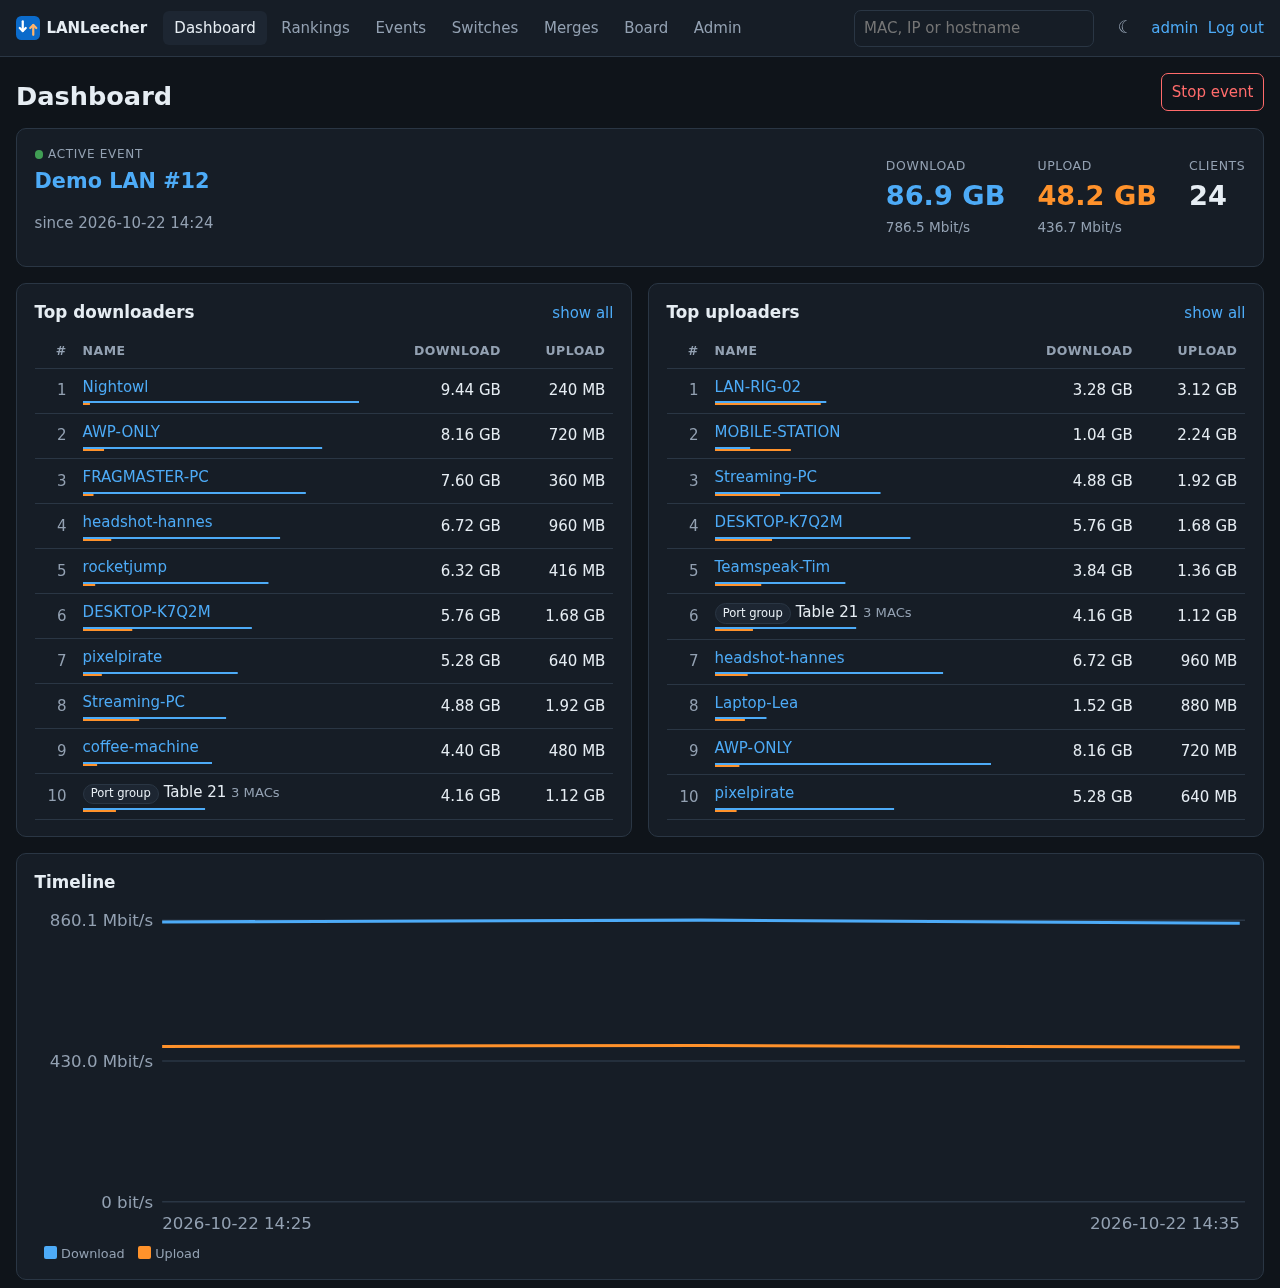
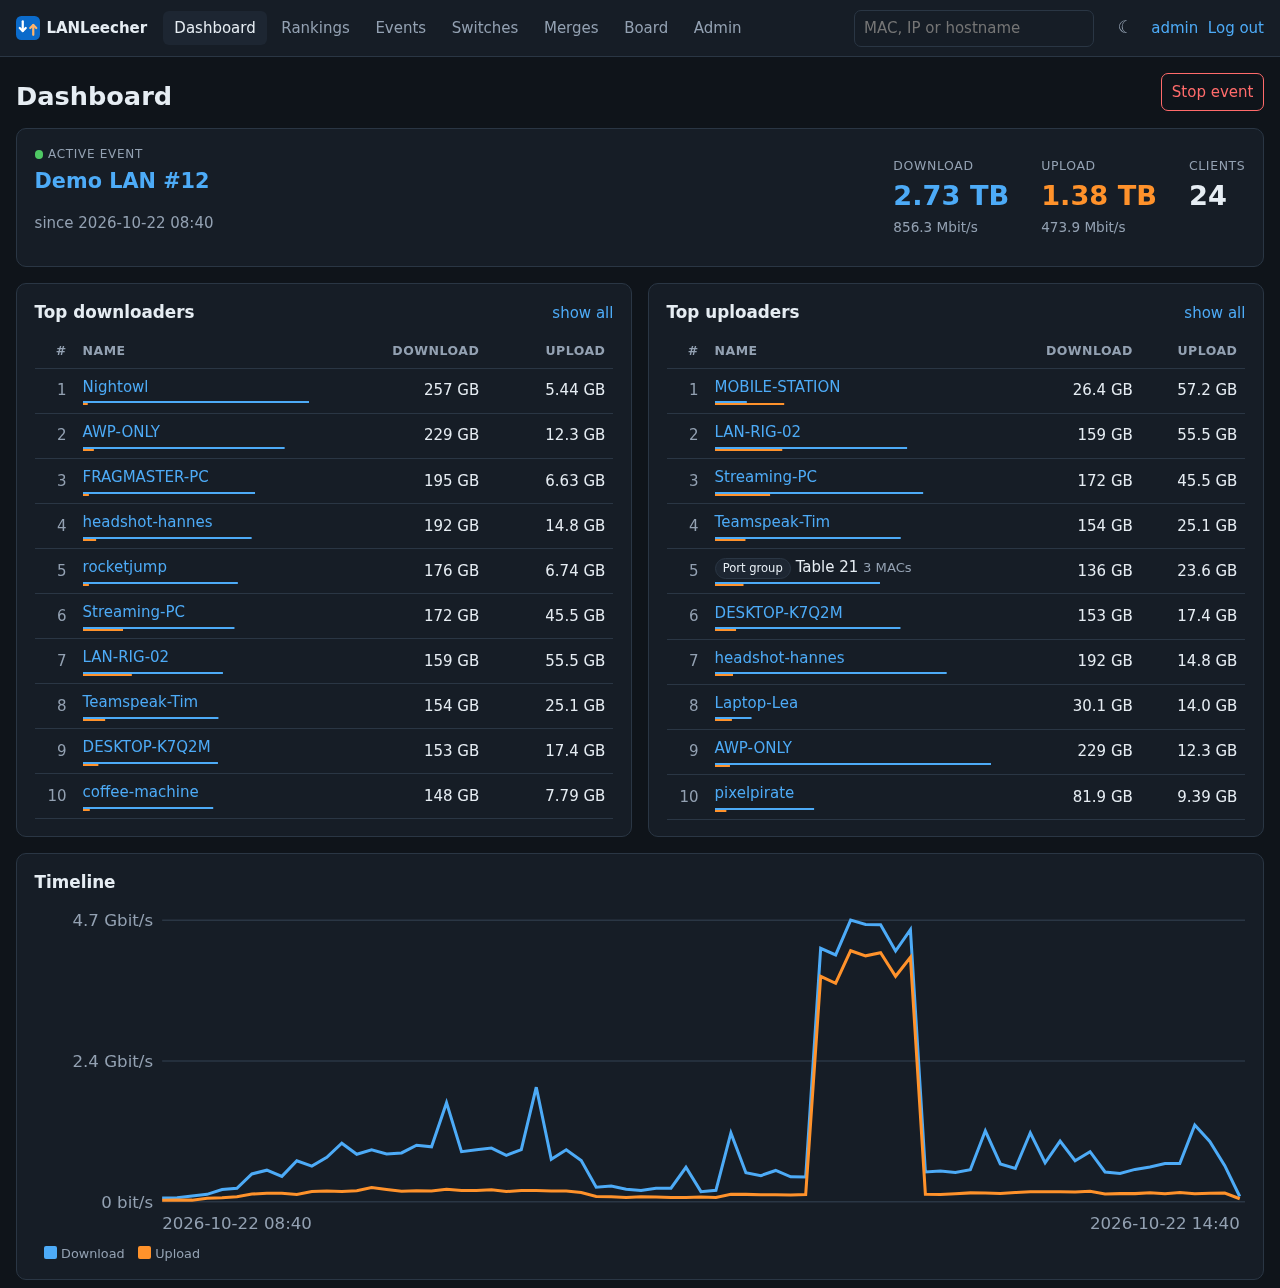
Add demo history for livelier screenshots
testdata/demo/seed_history.py writes invented traffic into a demo
database: six hours with arrivals, a dinner dip, a game patch served by
the LANcache and guests going to sleep, plus two earlier LAN parties.
The screenshots are taken from it.

diff --git a/testdata/demo/seed_history.py b/testdata/demo/seed_history.py
@@ -1,0 +1,173 @@
+#!/usr/bin/env python3
+"""Seeds made-up traffic history into a LANLeecher demo database, for screenshots.
+
+Run it against a demo instance that polls testdata/snmpsim/demo.snmprec (see
+CONTRIBUTING.md), after the first forwarding-table read, while the server runs:
+
+    python3 testdata/demo/seed_history.py data/lanleecher.db
+
+It writes directly into SQLite (schema version 2) and only touches the demo switch:
+  - the running event gets six hours of 5-minute buckets before the current one:
+    guests arriving, a dinner dip, a big game patch served by the LANcache, guests
+    going to sleep, a streamer uploading all evening;
+  - two earlier LAN parties with a subset of the guests.
+Totals are the sums of the buckets, so rankings, timelines and device history agree.
+All data is invented; the random generator is seeded, so the result is reproducible.
+"""
+import math
+import random
+import sqlite3
+import sys
+import time
+
+BUCKET = 300  # seconds
+MBIT = 1e6 / 8  # bytes per second at 1 Mbit/s
+
+# Per guest (port 1-20): typical download / upload in Mbit/s and a profile.
+GUESTS = [
+    (60, 4, "gamer"), (45, 12, "gamer"), (80, 3, "downloader"), (35, 30, "seeder"), (55, 6, "gamer"),
+    (25, 2, "casual"), (70, 9, "gamer"), (15, 22, "streamer"), (40, 4, "casual"), (30, 3, "gamer"),
+    (75, 7, "downloader"), (8, 1, "retro"), (35, 14, "voice"), (20, 2, "casual"), (65, 5, "gamer"),
+    (18, 9, "casual"), (28, 2, "sleeper"), (10, 1, "sleeper"), (50, 18, "streamer"), (25, 3, "gamer"),
+]
+
+
+def activity(h: float) -> float:
+    """Overall activity over the evening (h = hours since the event started)."""
+    a = 0.75 + 0.25 * math.sin(h * 1.3)
+    if 2.4 <= h <= 3.1:  # dinner
+        a *= 0.35
+    if h > 5.2:  # late night
+        a *= 0.7
+    return a
+
+
+def guest_rates(rng, i, profile, base_down, base_up, h, arrival, patch, sleep_at):
+    if h < arrival or h > sleep_at:
+        return 0.0, 0.0
+    noise = rng.lognormvariate(0, 0.35)
+    down = base_down * activity(h) * noise
+    up = base_up * activity(h) * rng.lognormvariate(0, 0.3)
+    if profile == "streamer":
+        up = base_up * rng.uniform(0.9, 1.1)  # constant upload while streaming
+    if profile == "downloader" and rng.random() < 0.08:
+        down += rng.uniform(300, 700)  # occasional big download
+    if patch[0] <= h <= patch[1] and i in patch[2]:
+        down += rng.uniform(220, 420)  # game patch from the LANcache
+    return down, up
+
+
+def seed_event(db, event_id, start, end, guests, rng, ports, macs, group_id, now_bucket):
+    totals = {}  # (subject_type, subject_id, port_id) -> [down, up]
+    port_totals = {}
+
+    def add(subject_type, subject_id, port_id, bucket, down_bps, up_bps):
+        d, u = int(down_bps * MBIT * BUCKET), int(up_bps * MBIT * BUCKET)
+        if d == 0 and u == 0:
+            return
+        db.execute("""INSERT INTO traffic_buckets (event_id, subject_type, subject_id, port_id, bucket_start, bytes_down, bytes_up)
+                      VALUES (?,?,?,?,?,?,?) ON CONFLICT (event_id, subject_type, subject_id, port_id, bucket_start)
+                      DO UPDATE SET bytes_down = bytes_down + excluded.bytes_down, bytes_up = bytes_up + excluded.bytes_up""",
+                   (event_id, subject_type, subject_id, port_id, bucket, d, u))
+        t = totals.setdefault((subject_type, subject_id, port_id), [0, 0])
+        t[0] += d
+        t[1] += u
+        p = port_totals.setdefault(port_id, [0, 0])
+        p[0] += d
+        p[1] += u
+
+    hours = (end - start) / 3600
+    arrival = {i: rng.uniform(0, 1.5) for i in guests}
+    sleep_at = {i: (rng.uniform(4.6, 5.6) if GUESTS[i - 1][2] == "sleeper" else hours + 1) for i in guests}
+    patch_guests = set(rng.sample(sorted(guests), k=min(12, len(guests))))
+    patch = (hours * 0.6, hours * 0.6 + 0.6, patch_guests)
+
+    bucket = start - start % BUCKET
+    while bucket < min(end, now_bucket):
+        h = (bucket - start) / 3600
+        cache_up = 0.0
+        for i in guests:
+            base_down, base_up, profile = GUESTS[i - 1]
+            down, up = guest_rates(rng, i, profile, base_down, base_up, h, arrival[i], patch, sleep_at[i])
+            add("mac", macs[i], ports[i], bucket, down, up)
+            if patch[0] <= h <= patch[1] and i in patch_guests:
+                cache_up += down * 0.9
+        # Table 21: three guests behind a small switch.
+        add("port_group", str(group_id), ports[22], bucket, 70 * activity(h) * rng.lognormvariate(0, 0.3),
+            12 * activity(h) * rng.lognormvariate(0, 0.3))
+        # LANcache: delivers the patch, little else.
+        add("mac", macs[21], ports[21], bucket, 5 * rng.random(), cache_up + 20 * activity(h))
+        bucket += BUCKET
+
+    for (subject_type, subject_id, port_id), (d, u) in totals.items():
+        db.execute("""INSERT INTO traffic_totals (event_id, subject_type, subject_id, port_id, bytes_down, bytes_up, updated_at)
+                      VALUES (?,?,?,?,?,?,?) ON CONFLICT (event_id, subject_type, subject_id, port_id)
+                      DO UPDATE SET bytes_down = bytes_down + excluded.bytes_down, bytes_up = bytes_up + excluded.bytes_up""",
+                   (event_id, subject_type, subject_id, port_id, d, u, end))
+    # The uplink carries the internet share of the guests' traffic.
+    all_down = sum(v[0] for k, v in port_totals.items())
+    all_up = sum(v[1] for k, v in port_totals.items())
+    port_totals[ports[24]] = [int(all_down * 0.35), int(all_up * 0.25)]
+    for port_id, (d, u) in port_totals.items():
+        db.execute("""INSERT INTO port_traffic_totals (event_id, port_id, bytes_down, bytes_up, updated_at) VALUES (?,?,?,?,?)
+                      ON CONFLICT (event_id, port_id) DO UPDATE SET bytes_down = bytes_down + excluded.bytes_down,
+                      bytes_up = bytes_up + excluded.bytes_up""", (event_id, port_id, d, u, end))
+
+
+def main():
+    db = sqlite3.connect(sys.argv[1], timeout=30)
+    rng = random.Random(12)
+    now = int(time.time())
+    now_bucket = now - now % BUCKET
+
+    ports = {row[0]: row[1] for row in db.execute(
+        "SELECT p.if_index, p.id FROM ports p JOIN switches s ON s.id = p.switch_id WHERE s.name = 'demo-sw1'")}
+    if len(ports) < 24:
+        sys.exit("demo switch not polled yet – wait for the first poll")
+    macs = {i: f"02:00:00:00:01:{i:02x}" for i in range(1, 21)}
+    macs[21] = "02:00:00:00:02:01"
+    for mac in macs.values():
+        if not db.execute("SELECT 1 FROM macs WHERE mac = ?", (mac,)).fetchone():
+            sys.exit("forwarding table not read yet – wait a few seconds")
+
+    def group(event_id):
+        db.execute("INSERT OR IGNORE INTO port_groups (event_id, port_id) VALUES (?, ?)", (event_id, ports[22]))
+        gid = db.execute("SELECT id FROM port_groups WHERE event_id = ? AND port_id = ?", (event_id, ports[22])).fetchone()[0]
+        for k in range(1, 4):
+            db.execute("INSERT OR IGNORE INTO port_group_macs VALUES (?, ?, ?, ?)", (gid, f"02:00:00:00:03:{k:02x}", now, now))
+        return gid
+
+    # Earlier LAN parties: ended, a subset of the guests.
+    for number, days_ago, k in ((10, 63, 13), (11, 28, 16)):
+        day = time.localtime(now - days_ago * 86400)
+        start = int(time.mktime((day.tm_year, day.tm_mon, day.tm_mday, 18, 0, 0, 0, 0, -1)))  # 18:00 local
+        end = start + 8 * 3600
+        cur = db.execute("INSERT OR IGNORE INTO events (name, slug, started_at, ended_at, notes) VALUES (?,?,?,?,'')",
+                         (f"Demo LAN #{number}", f"demo-lan-{number}", start, end))
+        if cur.rowcount == 0:
+            continue  # already seeded
+        event_id = cur.lastrowid
+        guests = set(rng.sample(range(1, 21), k=k)) | {3, 11}
+        seed_event(db, event_id, start, end, guests, rng, ports, macs, group(event_id), end)
+
+    # The running event: six hours of history before the current bucket.
+    event_id, started = db.execute("SELECT id, started_at FROM events WHERE ended_at IS NULL").fetchone()
+    start = now_bucket - 6 * 3600
+    if started > start:
+        db.execute("UPDATE events SET started_at = ? WHERE id = ?", (start, event_id))
+        seed_event(db, event_id, start, now_bucket, set(range(1, 21)), rng, ports, macs, group(event_id), now_bucket)
+    # Guests were first seen at their first event, not when the demo started.
+    for (mac,) in db.execute("SELECT mac FROM macs WHERE mac LIKE '02:00:00:00:%'").fetchall():
+        row = db.execute("""SELECT MIN(e.started_at) FROM traffic_totals t JOIN events e ON e.id = t.event_id
+                            WHERE t.subject_type = 'mac' AND t.subject_id = ?""", (mac,)).fetchone()
+        first = row[0] if row and row[0] else None
+        if first is None:
+            continue
+        for table in ("macs", "mac_locations", "mac_ip_history", "mac_hostname_history"):
+            db.execute(f"UPDATE {table} SET first_seen = MIN(first_seen, ?) WHERE mac = ?", (first + 600, mac))
+    db.commit()
+    print("seeded")
+
+
+if __name__ == "__main__":
+    main()

diff --git a/CONTRIBUTING.md b/CONTRIBUTING.md
@@ -39,7 +39,17 @@ LANLEECHER_SNMP_COMMUNITY=demo ./bin/lanleecher -c config.yaml switch add --name
 ```
 
 The community is the file name of the simulation: `demo` (24 ports with made-up guests) or
-`testswitch` (the integration test fixture). `config.yaml`, `secret.key`, `data/` and `bin/` in the
+`testswitch` (the integration test fixture).
+
+For screenshots, give the demo some history once the first poll is through: guest names
+(set them in the UI or the database), then
+
+```bash
+python3 testdata/demo/seed_history.py data/lanleecher.db
+```
+
+It adds six hours of varied traffic to the running event and two earlier LAN parties. All data is
+invented and the result is reproducible. The screenshots in `docs/images/` were made this way. `config.yaml`, `secret.key`, `data/` and `bin/` in the
 repository root are git-ignored.
 
 ## Rules
